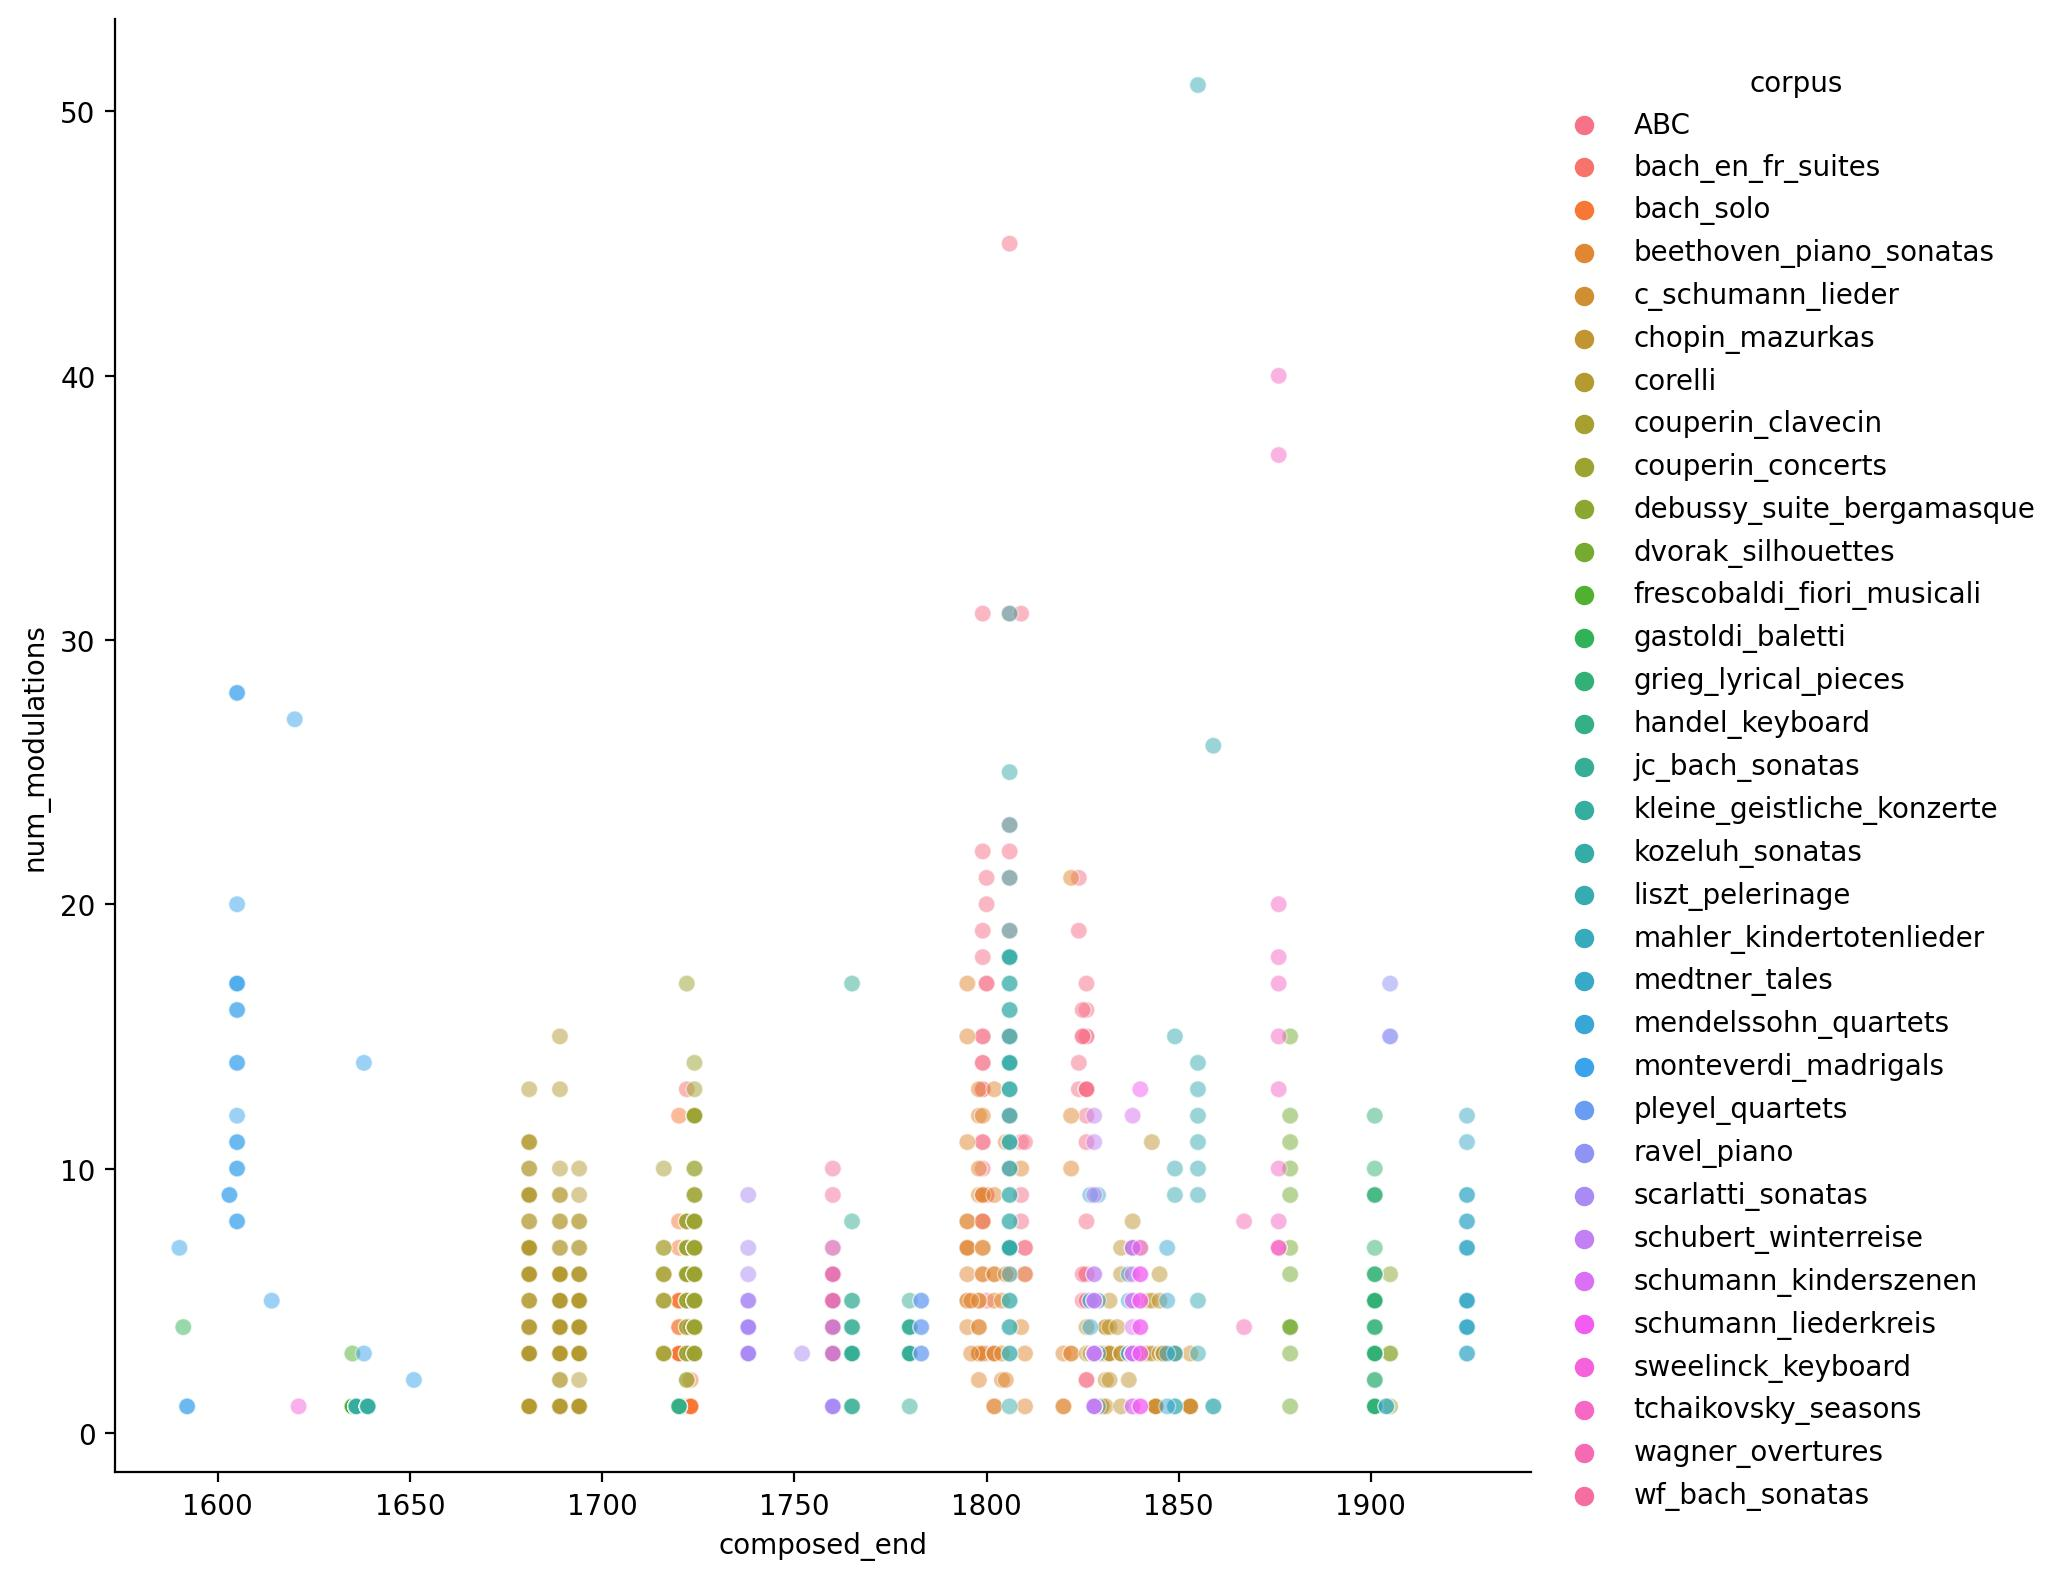
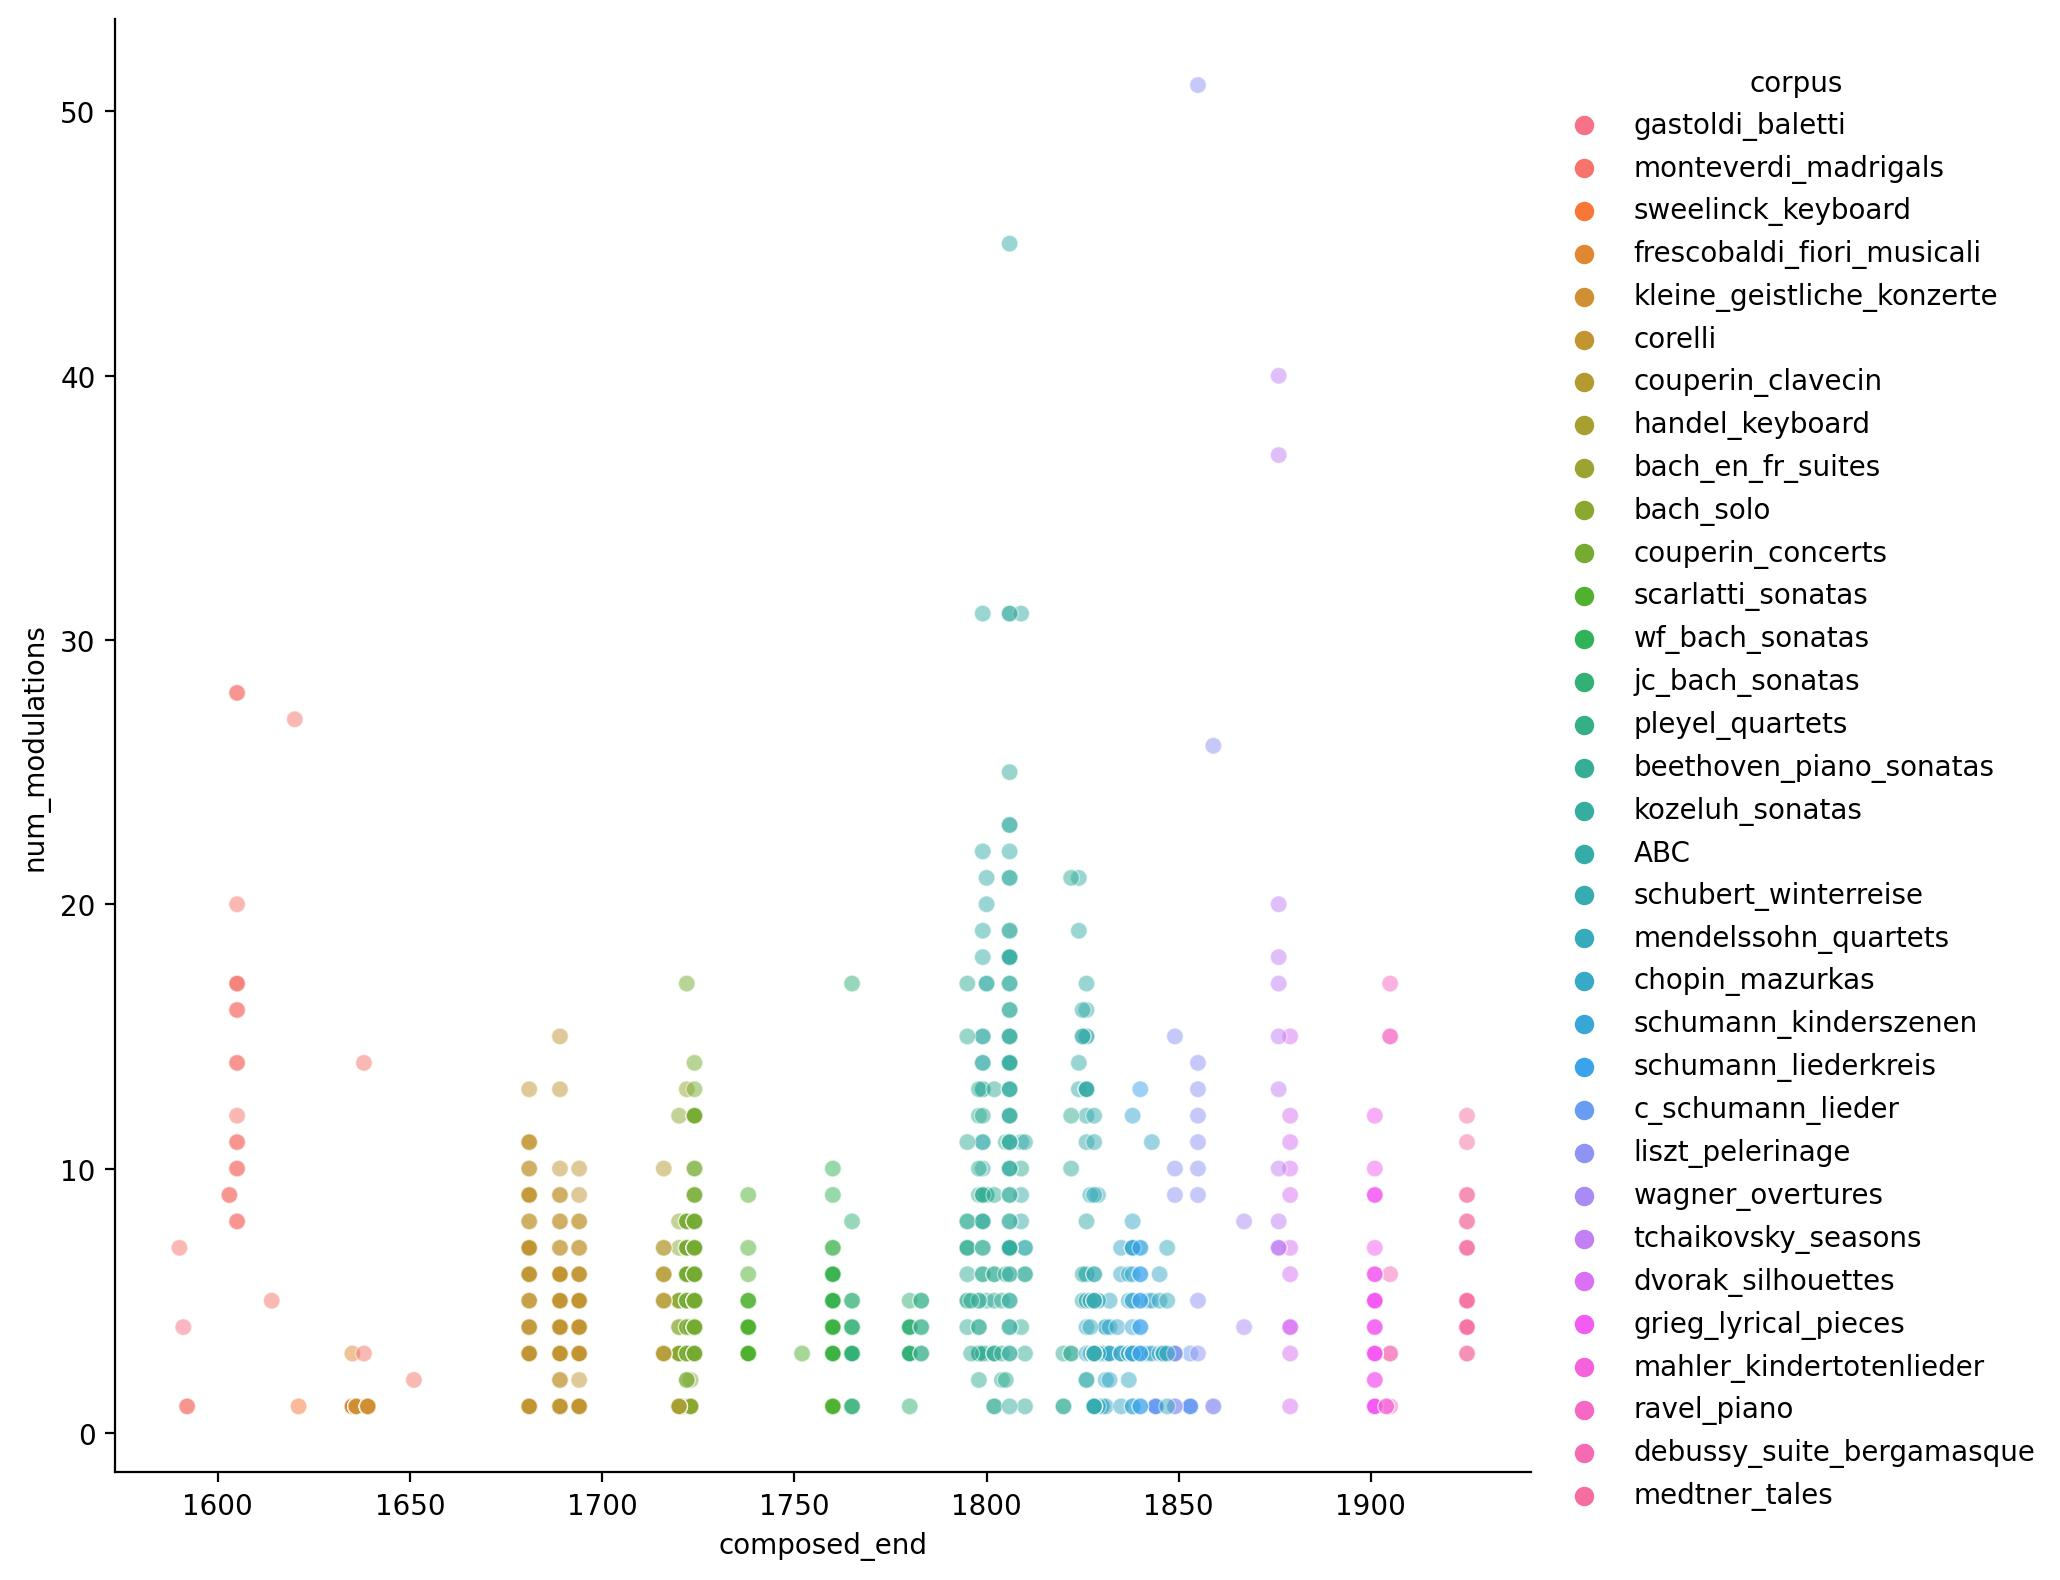
work: added corpus_list_in_chronological_order for hue order

diff --git a/main.py b/main.py
@@ -55,9 +55,12 @@ def plot_modulation_counts_in_a_piece_replot(metacorpora) -> sns.relplot():
 
     modulation_data_df = pd.concat(modulation_df_list, ignore_index=True)
 
+    # for hue order
+    corpus_chronological_order = metacorpora.get_corpus_list_in_chronological_order()
+
     # plot the df
     g = sns.relplot(data=modulation_data_df, x='composed_end', y='num_modulations',
-                      height=8, hue='corpus', alpha=0.5)
+                      height=8, hue='corpus', hue_order=corpus_chronological_order, alpha=0.5)
 
     g.savefig(fname='figs/modulation_count_in_pieces.jpeg', dpi=200, format='jpeg')
 
@@ -69,7 +72,7 @@ def plot_modulation_counts_in_a_piece_replot(metacorpora) -> sns.relplot():
 def jointplot_modulation_steps_distribution_in_metacorpus(metacorpora) -> sns.JointGrid:
     modulation_step = plotting.ModulationSteps(metacorpora)
     data = modulation_step.get_modulation_steps_data(data_source=metacorpora)
-    g = sns.jointplot(data=data, x='year', y='interval', kind='hist', bins=30)
+    g = sns.jointplot(data=data, x='year', y='interval', kind='hist', bins='auto', marginal_ticks=True)
     g.set_axis_labels('Year', 'Interval on the line of fifths')
     g.savefig(fname='figs/jointplot_modulation_steps_distribution_in_metacorpus.jpeg', dpi=200, format='jpeg')
     return g
@@ -155,8 +158,8 @@ if __name__ == '__main__':
 
 
     # plot_chronological_distribution_of_pieces()
-    plot_modulation_counts_in_a_piece_replot(metacorpora)
-    # jointplot_modulation_steps_distribution_in_metacorpus()
+    # plot_modulation_counts_in_a_piece_replot(metacorpora)
+    jointplot_modulation_steps_distribution_in_metacorpus(metacorpora)
     # displot_modulation_steps_dist_4_modes(metacorpora)
     # facetgrid_modulation_steps_by_era(metacorpora)
     # facetgrid_modulation_steps_with_modes_by_era(metacorpora)

diff --git a/loader.py b/loader.py
@@ -374,10 +374,36 @@ class MetaCorpraInfo:
         return transition_matrix
 
 
+    def get_corpus_list_in_chronological_order(self):
+        corpus_year_df_list = []
+
+        for corpus in self.corpus_list:
+            mean_year = corpus.metadata_df['composed_end'].mean()
+            mean_year = int(mean_year)
+            corpuswise_corpus_year_df = pd.DataFrame([[corpus.corpus_name, mean_year]], columns=['corpus', 'year'])
+            corpus_year_df_list.append(corpuswise_corpus_year_df)
+        corpus_year_df = pd.concat(corpus_year_df_list)
+        sorted_df = corpus_year_df.sort_values(by=['year'], ascending=True)
+        corpus_list_in_chronological_order = sorted_df['corpus'].to_list()
+
+        return corpus_list_in_chronological_order
 
 
 if __name__ == '__main__':
-    meta_corpora_path = 'dcml_corpora/'
+    meta_corpora_path = 'romantic_piano_corpus/'
     metacorpora = MetaCorpraInfo(meta_corpora_path=meta_corpora_path)
 
+    # corpus_year_df_list=[]
+    #
+    # for corpus in metacorpora.corpus_list:
+    #     mean_year = corpus.metadata_df['composed_end'].mean()
+    #     mean_year = int(mean_year)
+    #     corpuswise_corpus_year_df = pd.DataFrame([[corpus.corpus_name, mean_year]], columns=['corpus', 'year'])
+    #     corpus_year_df_list.append(corpuswise_corpus_year_df)
+    # corpus_year_df = pd.concat(corpus_year_df_list)
+    # sorted_df = corpus_year_df.sort_values(by=['year'], ascending=True)
+    # corpus_list_in_chronological_order = sorted_df['corpus'].to_list()
+    # print(corpus_list_in_chronological_order)
+    # print(sorted_df)
 
+    print(metacorpora.get_corpus_list_in_chronological_order())

diff --git a/plotting.py b/plotting.py
@@ -223,14 +223,25 @@ class ModulationSteps:
 
 
 if __name__ == '__main__':
-    metacorpora_path = 'romantic_piano_corpus/'
+    metacorpora_path = 'dcml_corpora/'
 
     metacorpora = MetaCorpraInfo(metacorpora_path)
 
     m = ModulationSteps(metacorpora)
 
-    df = m.get_modulation_steps_with_transition_types_data(data_source=metacorpora)
-    filtered = df.loc[(df['interval'] == 0) & (df['type'] =='MM')]
-    result = filtered['bigram'].tolist()
+    modulation_df_list = []
+    for idx, val in enumerate(metacorpora.corpus_name_list):
+        corpus = CorpusInfo(corpus_path=metacorpora_path+ val + '/')
+        corpus_modulation_df = m.get_corpuswise_modulation_data_df(corpus)
+        modulation_df_list.append(corpus_modulation_df)
+    df = pd.concat(modulation_df_list, ignore_index=True)
+
+    filtered = df.loc[(df['num_modulations'] > 25)]
+
+    sorted = df.sort_values(by=['composed_end'])
+
+
+
+    result = print(filtered.to_markdown())
 
     print(result)

diff --git a/scrath.py b/scrath.py
@@ -1,8 +1,19 @@
 # Created by Xinyi Guan in 2022.
 import pitchtypes
-
+from loader import MetaCorpraInfo, CorpusInfo
 
 
 if __name__=='__main__':
     meta_corpora_path = 'dcml_corpora/'
-    
+    metacopora = MetaCorpraInfo(meta_corpora_path)
+
+    list_of_corpus = metacopora.corpus_name_list
+    pieces_num_in_metacropora = []
+    for item in list_of_corpus:
+        corpus = CorpusInfo(meta_corpora_path+item+'/')
+        pieces_num_in_corpus = len(corpus.get_annotated_piece_name_list())
+        pieces_num_in_metacropora.append(pieces_num_in_corpus)
+
+    num = sum(pieces_num_in_metacropora)
+    print(pieces_num_in_metacropora)
+    print(num)

diff --git a/util.py b/util.py
@@ -183,7 +183,7 @@ class ModulaitonBigram:
         # account for secondary chord, all relative to CMajor or a minor
         if '/' in self.preceding_key:
             seperated_items = self.preceding_key.split('/')
-            preceding_abs_pc=[]
+            preceding_abs_pc = []
 
             return preceding_abs_pc
 
